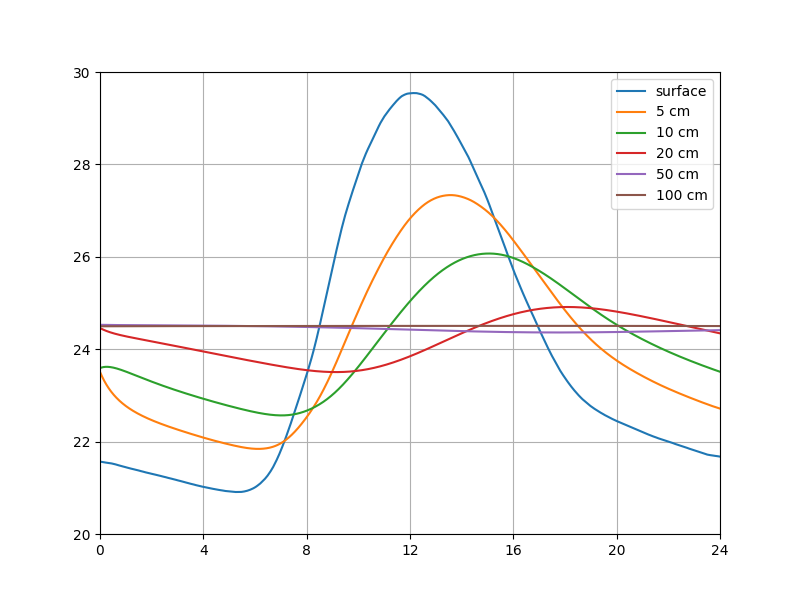
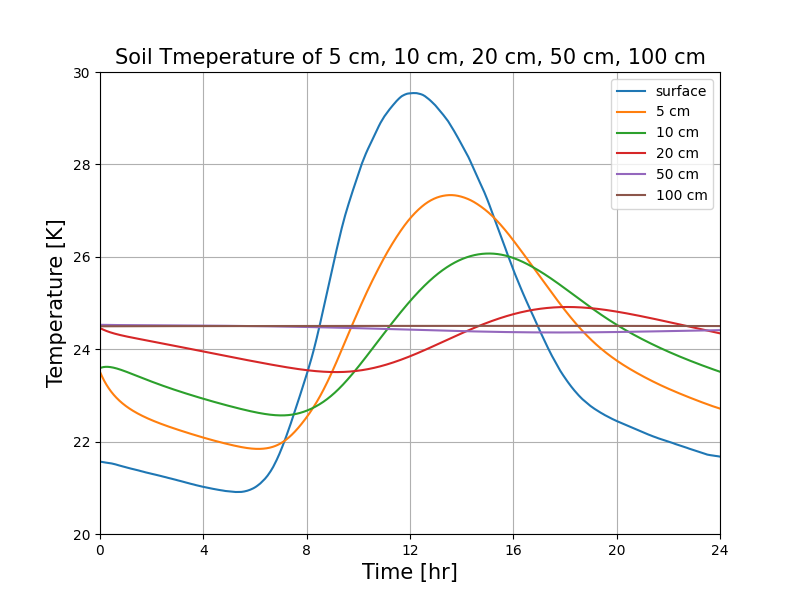
20230405

Changed region(s): [[0.125, 0.06, 0.875, 0.12], [0.0625, 0.36, 0.0938, 0.63], [0.4375, 0.93, 0.5625, 0.96]]

diff --git a/Summer_Reasearch_Preparation/Lorenz Model/RK4/rk4_testing.py b/Summer_Reasearch_Preparation/Lorenz Model/RK4/rk4_testing.py
@@ -104,49 +104,49 @@ z[0] = 0.001
 
 # plt.savefig('Test_of_rk4.png', dpi = 600)
 # plt.show()
+for j in range(loop_time):
+    for i in range(10000):
 
-for i in range(10000):
+        # calculate between time
+        B00 = x[j]+r.uniform(0, 1e-10)
+        B01 = x[j]+r.uniform(0, 1e-10)
+        B02 = x[j]+r.uniform(0, 1e-10)
 
-    # calculate between time
-    B00 = x[0]+r.uniform(0, 1e-10)
-    B01 = x[0]+r.uniform(0, 1e-10)
-    B02 = x[0]+r.uniform(0, 1e-10)
+        B10 = y[j]+r.uniform(0, 1e-10)
+        B11 = y[j]+r.uniform(0, 1e-10)
+        B12 = y[j]+r.uniform(0, 1e-10)
 
-    B10 = y[0]+r.uniform(0, 1e-10)
-    B11 = y[0]+r.uniform(0, 1e-10)
-    B12 = y[0]+r.uniform(0, 1e-10)
+        B20 = z[j]+r.uniform(0, 1e-10)
+        B21 = z[j]+r.uniform(0, 1e-10)
+        B22 = z[j]+r.uniform(0, 1e-10)
 
-    B20 = z[0]+r.uniform(0, 1e-10)
-    B21 = z[0]+r.uniform(0, 1e-10)
-    B22 = z[0]+r.uniform(0, 1e-10)
+        B = np.array([[B00, B01, B02], [B10, B11, B12], [B20, B21, B22]])
+        AB = np.array([[rk.x_evo(B00, B10, B20, h), rk.x_evo(B01, B11, B21, h), rk.x_evo(B02, B12, B22, h)], [rk.y_evo(B00, B10, B20, h), rk.y_evo(B01, B11, B21, h), rk.y_evo(B02, B12, B22, h)], [rk.z_evo(B00, B10, B20, h), rk.z_evo(B01, B11, B21, h), rk.z_evo(B02, B12, B22, h)]])
+        if (np.linalg.det(B) == 0)&(np.linalg.det(AB) == 0):
+            break
 
-    B = np.array([[B00, B01, B02], [B10, B11, B12], [B20, B21, B22]])
-    AB = np.array([[rk.x_evo(B00, B10, B20, h), rk.x_evo(B01, B11, B21, h), rk.x_evo(B02, B12, B22, h)], [rk.y_evo(B00, B10, B20, h), rk.y_evo(B01, B11, B21, h), rk.y_evo(B02, B12, B22, h)], [rk.z_evo(B00, B10, B20, h), rk.z_evo(B01, B11, B21, h), rk.z_evo(B02, B12, B22, h)]])
-    if (np.linalg.det(B) == 0)&(np.linalg.det(AB) == 0):
-        break
+        # print linear operator
+        A = np.dot(AB, np.linalg.inv(B))
 
-    # print linear operator
-    A = np.dot(AB, np.linalg.inv(B))
-
-    # to other file
-    with open('Linear_operator[0,0].txt', 'a') as file:
-        file.write(str(A[0,0])+'\n')
-    with open('Linear_operator[0,1].txt', 'a') as file:
-        file.write(str(A[0,1])+'\n')
-    with open('Linear_operator[0,2].txt', 'a') as file:
-        file.write(str(A[0,2])+'\n')
-    with open('Linear_operator[1,0].txt', 'a') as file:
-        file.write(str(A[1,0])+'\n')
-    with open('Linear_operator[1,1].txt', 'a') as file:
-        file.write(str(A[1,1])+'\n')
-    with open('Linear_operator[1,2].txt', 'a') as file:
-        file.write(str(A[1,2])+'\n')
-    with open('Linear_operator[2,0].txt', 'a') as file:
-        file.write(str(A[2,0])+'\n')
-    with open('Linear_operator[2,1].txt', 'a') as file:
-        file.write(str(A[2,1])+'\n')
-    with open('Linear_operator[2,2].txt', 'a') as file:
-        file.write(str(A[2,2])+'\n')
+        # to other file
+        with open('Linear_operator_step'+str(j)+',[0,0].txt', 'a') as file:
+            file.write(str(A[0,0])+'\n')
+        with open('Linear_operator_step'+str(j)+',[0,1].txt', 'a') as file:
+            file.write(str(A[0,1])+'\n')
+        with open('Linear_operator_step'+str(j)+',[0,2].txt', 'a') as file:
+            file.write(str(A[0,2])+'\n')
+        with open('Linear_operator_step'+str(j)+',[1,0].txt', 'a') as file:
+            file.write(str(A[1,0])+'\n')
+        with open('Linear_operator_step'+str(j)+',[1,1].txt', 'a') as file:
+            file.write(str(A[1,1])+'\n')
+        with open('Linear_operator_step'+str(j)+',[1,2].txt', 'a') as file:
+            file.write(str(A[1,2])+'\n')
+        with open('Linear_operator_step'+str(j)+',[2,0].txt', 'a') as file:
+            file.write(str(A[2,0])+'\n')
+        with open('Linear_operator_step'+str(j)+',[2,1].txt', 'a') as file:
+            file.write(str(A[2,1])+'\n')
+        with open('Linear_operator_step'+str(j)+',[2,2].txt', 'a') as file:
+            file.write(str(A[2,2])+'\n')
     # print(A)
     # with open('matrix.txt', 'a') as file:
     #     file.write('linear operator \n')
@@ -156,15 +156,3 @@ for i in range(10000):
     #         file.write('\n')
     #     file.write('\n')
     #     file.write('###################################################################\n')
-
-# draw boxplot
-A00 = np.loadtxt('Linear_operator[0,0].txt')
-A01 = np.loadtxt('Linear_operator[0,1].txt')
-A02 = np.loadtxt('Linear_operator[0,2].txt')
-A10 = np.loadtxt('Linear_operator[1,0].txt')
-A11 = np.loadtxt('Linear_operator[1,1].txt')
-A12 = np.loadtxt('Linear_operator[1,2].txt')
-A20 = np.loadtxt('Linear_operator[2,0].txt')
-A21 = np.loadtxt('Linear_operator[2,1].txt')
-A22 = np.loadtxt('Linear_operator[2,2].txt')
-

diff --git a/大一下/數值分析/function.py b/大一下/數值分析/function.py
@@ -1,0 +1,87 @@
+# import lib
+import numpy as np
+import scipy.misc
+import func as f
+
+# absolte error
+def abs_err(arr_est, arr_true):
+    abserr = np.abs(arr_est-arr_true)
+    return abserr
+
+# rlative error
+def rel_err(arr_est, arr_true):
+    relerr = abs_err(arr_est, arr_true)/arr_true
+    return relerr
+
+# bisection method
+def bi_method(x1, x2, TOL):
+    if f.func(x1)*f.func(x2) < 0:
+        while (abs(x2-x1) < TOL):
+            x3 = 1/2*(x1+x2)
+            if (f.func(x1)*f.func(x3) < 0):
+                x2 = x3
+            else :
+                x1 = x3
+        x = 1/2*(x1+x2)
+    return x
+
+# Newton method
+def newton_method(x0, tol):
+    x = x0
+    while abs(f.func(x)) > tol:
+        df = scipy.misc.derivative(f.func(), x, dx=1e-6, n=1)  # 估算一阶导数
+        x = x - f.func(x) / df
+    return x
+
+# secant method
+def sec_method(x0, x1, tol):
+    while (abs(x0-x1) < tol):
+        x2 = x1 - f.func(x1)*(x0-x1)/(f.func(x0)-f.func(x1))
+        x0 = x1
+        x1 = x2
+    return x2
+
+# Gauss elimination
+def gaussian_elimination(A, b):
+    aug_matrix = np.column_stack((A, b))
+
+    n = len(A)
+    for i in range(n-1):
+        max_row = i + np.argmax(np.abs(aug_matrix[i:, i]))
+        if max_row != i:
+            aug_matrix[[i, max_row], :] = aug_matrix[[max_row, i], :]
+        for j in range(i+1, n):
+            factor = aug_matrix[j, i] / aug_matrix[i, i]
+            aug_matrix[j, i:] = aug_matrix[j, i:] - factor * aug_matrix[i, i:]
+
+    x = np.zeros(n)
+    for i in range(n-1, -1, -1):
+        x[i] = (aug_matrix[i, n] - np.dot(aug_matrix[i, i+1:n], x[i+1:])) / aug_matrix[i, i]
+
+    return x
+
+# Guass seidel
+def gauss_seidel(A, b, x0, max_iter=10000, tol=1e-6):
+    
+    n = len(A)
+    x = np.array(x0)
+    for k in range(max_iter):
+        for i in range(n):
+            x[i] = (b[i] - np.dot(A[i, :i], x[:i]) - np.dot(A[i, i+1:], x[i+1:])) / A[i, i]
+        if np.linalg.norm(np.dot(A, x) - b) < tol:
+            return x
+    return x
+
+# Jacobi
+def jacobi(A, b, x0, max_iter=10000, tol=1e-6):
+    n = len(A)
+    x = np.array(x0)
+    D = np.diag(A) 
+    R = A - np.diagflat(D)  
+    for k in range(max_iter):
+        x_new = (b - np.dot(R, x)) / D
+        if np.linalg.norm(x_new - x) < tol:
+            return x_new
+        x = x_new
+    return x
+

diff --git a/大一下/數值分析/Week 5/hw5.py b/大一下/數值分析/Week 5/hw5.py
@@ -156,6 +156,9 @@ plt.ylim([20, 30])
 plt.xticks(np.linspace(0, 24, 7))
 plt.yticks(np.linspace(20, 30, 6))
 plt.grid()
+plt.xlabel('Time [hr]', fontsize = 15)
+plt.ylabel('Temperature [K]', fontsize = 15)
+plt.title('Soil Tmeperature of 5 cm, 10 cm, 20 cm, 50 cm, 100 cm', fontsize = 15)
 plt.legend(['surface', '5 cm', '10 cm', '20 cm', '50 cm', '100 cm'])
 
 plt.savefig('T_ge.png')
@@ -202,6 +205,9 @@ plt.ylim([20, 30])
 plt.grid()
 plt.xticks(np.linspace(0, 24, 7))
 plt.yticks(np.linspace(20, 30, 6))
+plt.xlabel('Time [hr]', fontsize = 15)
+plt.ylabel('Temperature [K]', fontsize = 15)
+plt.title('Soil Tmeperature of 5 cm, 10 cm, 20 cm, 50 cm, 100 cm', fontsize = 15)
 plt.legend(['surface', '5 cm', '10 cm', '20 cm', '50 cm', '100 cm'])
 
 plt.savefig('T_gs.png')
@@ -250,6 +256,9 @@ plt.ylim([20, 30])
 plt.grid()
 plt.xticks(np.linspace(0, 24, 7))
 plt.yticks(np.linspace(20, 30, 6))
+plt.xlabel('Time [hr]', fontsize = 15)
+plt.ylabel('Temperature [K]', fontsize = 15)
+plt.title('Soil Tmeperature of 5 cm, 10 cm, 20 cm, 50 cm, 100 cm', fontsize = 15)
 plt.legend(['surface', '5 cm', '10 cm', '20 cm', '50 cm', '100 cm'])
 
 plt.savefig('T_Ja.png')

diff --git a/Summer_Reasearch_Preparation/Lorenz Model/RK4/Statistics.py b/Summer_Reasearch_Preparation/Lorenz Model/RK4/Statistics.py
@@ -1,6 +1,8 @@
 # import lib 
 import numpy as np
 import matplotlib.pyplot as plt
+from scipy import stats as scis
+from scipy import io as sciio
 
 A00 = np.loadtxt('Linear_operator[0,0].txt')
 A01 = np.loadtxt('Linear_operator[0,1].txt')
@@ -12,4 +14,24 @@ A20 = np.loadtxt('Linear_operator[2,0].txt')
 A21 = np.loadtxt('Linear_operator[2,1].txt')
 A22 = np.loadtxt('Linear_operator[2,2].txt')
 
-# calculate medium
+# calculate mean value
+A00_mean = np.mean(A00)
+A01_mean = np.mean(A01)
+A02_mean = np.mean(A02)
+A10_mean = np.mean(A10)
+A11_mean = np.mean(A11)
+A12_mean = np.mean(A12)
+A20_mean = np.mean(A20)
+A21_mean = np.mean(A21)
+A22_mean = np.mean(A22)
+
+# calculate standard varible
+A00_std = np.std(A00)
+A01_std = np.std(A01)
+A02_std = np.std(A02)
+A10_std = np.std(A10)
+A11_std = np.std(A11)
+A12_std = np.std(A12)
+A20_std = np.std(A20)
+A21_std = np.std(A21)
+A22_std = np.std(A22)

diff --git a/大一下/數值分析/Week 5/Jacobi.py b/大一下/數值分析/Week 5/Jacobi.py
@@ -27,4 +27,5 @@ def jacobi(A, b, x0, tol=1e-8, max_iter=1000):
         error = np.linalg.norm(x - x_new, np.inf)
         x = np.copy(x_new)
         iter += 1
+        print(x)
     return x
